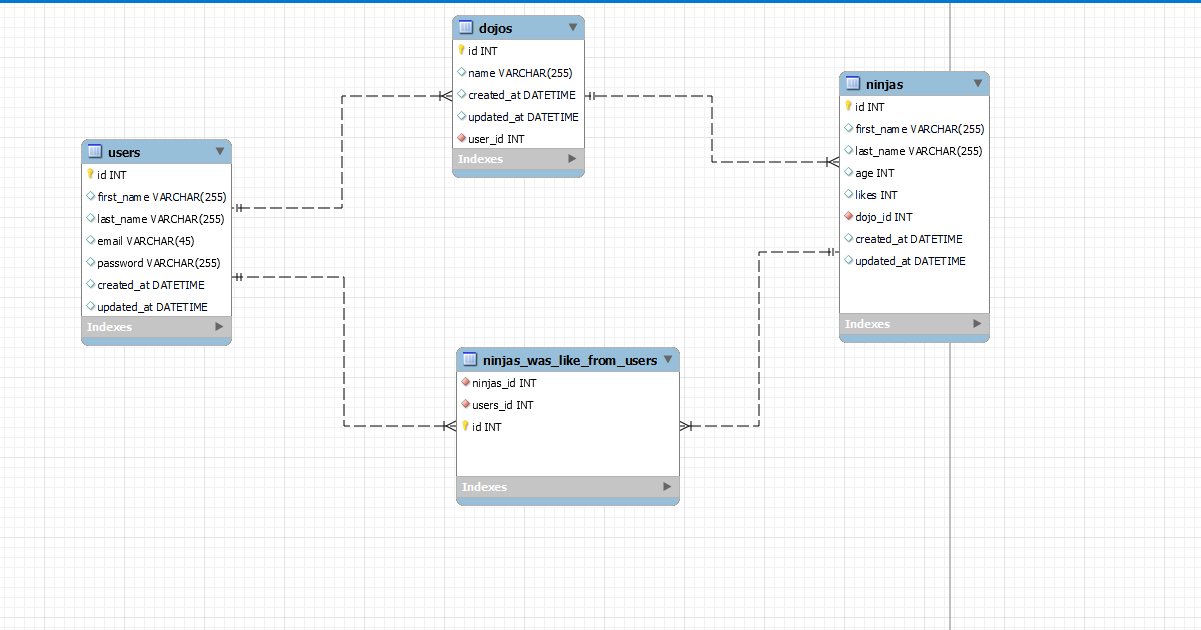
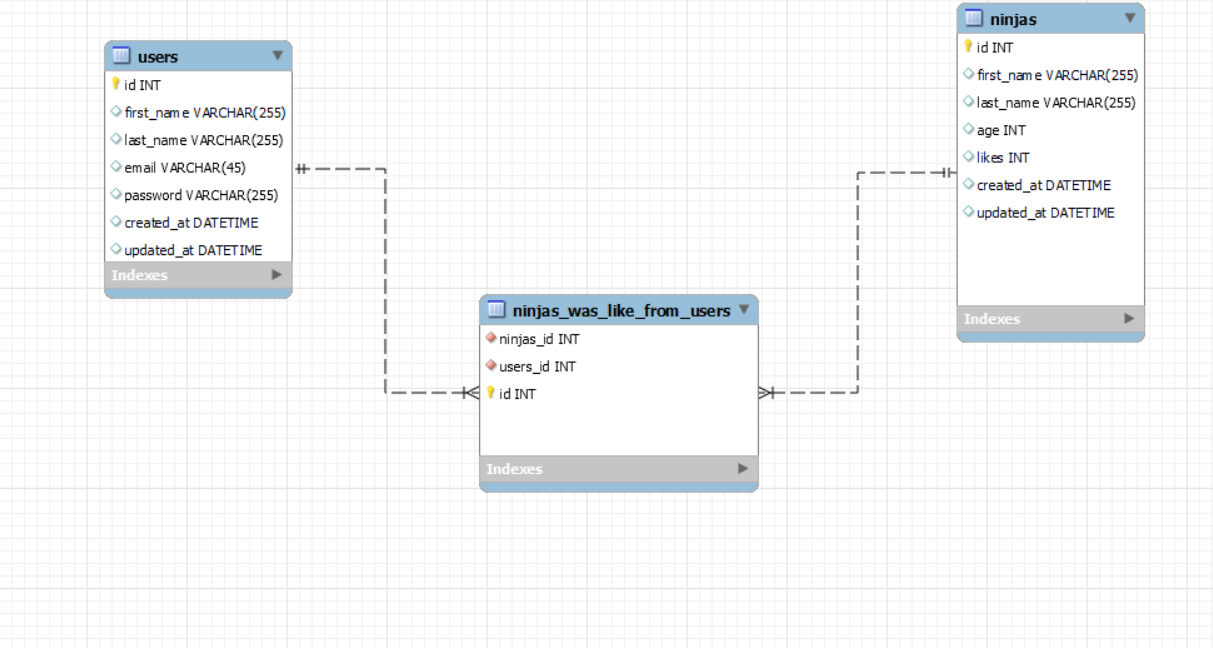
updates

diff --git a/flask_app/templates/index.html b/flask_app/templates/index.html
@@ -15,24 +15,14 @@
    
     <div class="d-flex justify-content-around">
         
-        <form action="/create/dojo" method="post">
-            <h1>New Dojo</h1>
-            <div class="form-group">
-                <label for="name">Name:</label>
-                <input type="text" name="name" class="form-control">
-            </div>
-            <input type="submit" value="Create" class="btn btn-primary">
-        </form>
+        <a href="/ninjas">Add Ninja</a>
         <div>
-            <h1>All Dojos</h1>
+            <h1>All Ninjas</h1>
             <div class="border  border-dark p-2">
-                {% for dojo in all_dojos %}
-                <p><a href="/dojo/{{dojo.id}}">{{dojo.name}}</a></p>
+                {% for ninja in all_ninjas %}
+                <p><a href="/ninja/{{ninja.id}}">{{ninja.first_name}}</a></p>
                 {% endfor %}
             </div>
-            
-        
-            <a class="m-4" href="/ninjas">Add Ninja</a>
         </div>
        
     </div>

diff --git a/flask_app/templates/showOneNinja.html b/flask_app/templates/showOneNinja.html
@@ -8,7 +8,7 @@
     <title>Dojos And Ninjas</title>
 </head>
 <body>
-    <h1>{{dojo.name}} Ninjas</h1>
+    <h1>{{ninja.first_name}} Ninjas</h1>
     <table class="table table-dark">
         <thead>
           <tr>
@@ -20,11 +20,10 @@
           </tr>
         </thead>
         <tbody>
-            {% for ninja in dojo.ninjas %}
             <tr>
                 <th scope="row">{{ninja.first_name}}</th>
                 <td>{{ninja.last_name}}</td>
-                <td>{{ninja.age}}</td>
+                <td>{{ninja.users_who_liked}}</td>
                 <td>{{ninja.likes}}</td>
 
 
@@ -35,9 +34,7 @@
                 <td><a href="/ninja/{{ninja.id}}/unlike">Unlike</a></td>
                 {% endif %}
             </tr>
-            
-            
-            {% endfor %}
+
         </tbody>
       </table>
       <a href="/">Home</a>

diff --git a/flask_app/templates/ninja.html b/flask_app/templates/ninja.html
@@ -22,14 +22,6 @@
     {% endwith %}
 
         <div class="form-group">
-            <label for="dojo_id">Dojo:</label>
-            <select name="dojo_id" class="form-control">
-                {% for dojo in dojos %}
-                <option value="{{dojo.id}}">{{dojo.name}}</option>
-                {% endfor %}
-            </select>
-        </div>
-        <div class="form-group">
             <label for="first_name">First Name:</label>
             <input type="text" name="first_name" class="form-control">
         </div>

diff --git a/flask_app/controllers/ninjas.py b/flask_app/controllers/ninjas.py
@@ -1,19 +1,31 @@
 from flask import render_template, redirect, request, session
 from flask_app import app
-from flask_app.models import dojo,ninja, user
+from flask_app.models.user import User
+from flask_app.models.ninja import Ninja
 
 @app.route('/ninjas')
 def ninjas():
-    return render_template('ninja.html', dojos= dojo.Dojo.get_all())
+    return render_template('ninja.html')
 
 @app.route('/create/ninja', methods=['POST'])
 def create_ninja():
     if 'user_id' not in session:
         return redirect('/logout')
-    if not ninja.Ninja.validate_ninja(request.form):
+    if not Ninja.validate_ninja(request.form):
         return redirect('/ninjas')
-    ninja.Ninja.save(request.form)
+    Ninja.save(request.form)
     return redirect('/')
+
+@app.route('/ninja/<int:id>')
+def show_ninja(id):
+    if 'user_id' not in session:
+        return redirect('/logout')
+    data = {
+        'ninja_id' : id,
+        'user_id': session['user_id']
+    }
+    myNinja = Ninja.get_one(data)
+    return render_template('showOneNinja.html', ninja=myNinja,  user=User.get_by_id(data),)
 
 @app.route('/ninja/<int:id>/like', methods=['GET','PUT'])
 def like_ninja(id):
@@ -24,12 +36,15 @@ def like_ninja(id):
         'user_id': session['user_id'],
         
     }
-    myNinja= ninja.Ninja.getUsersWhoLiked(data)
 
-    ninja.Ninja.addLike(data)
-    ninja.Ninja.getUsersWhoLiked(data)
-
-    return redirect(request.referrer)
+    Ninja.addLike(data)
+    updatedNinja = Ninja.getUsersWhoLiked(data)
+    updatedData = {
+        'ninja_id': id,
+        'likes': updatedNinja.likes
+    }
+    Ninja.update(updatedData)
+    return render_template('showOneNinja.html', ninja=updatedNinja,  user=User.get_by_id(data))
 
 @app.route('/ninja/<int:id>/unlike', methods=['GET','PUT'])
 def unlike_ninja(id):
@@ -39,5 +54,6 @@ def unlike_ninja(id):
         'ninja_id': id,
         'user_id': session['user_id'],
     }
-    user.User.unLike(data)
-    return redirect(request.referrer)
+    User.unLike(data)
+    updatedNinja = Ninja.getUsersWhoLiked(data)
+    return render_template('showOneNinja.html', ninja=updatedNinja,  user=User.get_by_id(data))

diff --git a/flask_app/controllers/users.py b/flask_app/controllers/users.py
@@ -2,7 +2,6 @@ import bcrypt
 from flask import render_template,redirect,session,request, flash
 from flask_app import app
 from flask_app.models.user import User
-from flask_app.models.dojo import Dojo
 from flask_app.models.ninja import Ninja
 from flask_bcrypt import Bcrypt
 bcrypt= Bcrypt(app)
@@ -10,16 +9,22 @@ bcrypt= Bcrypt(app)
 @app.route('/')
 def index():
     if 'user_id' in session:
-        return redirect('/dojos')
+        return redirect('/home')
     return render_template('login_register.html')
 
 @app.route('/register', methods=['POST'])
 def register():
     if not User.validate_register(request.form):
         return redirect('/')
-    id= User.save(request.form)
+    data ={ 
+        "first_name": request.form['first_name'],
+        "last_name": request.form['last_name'],
+        "email": request.form['email'],
+        "password": bcrypt.generate_password_hash(request.form['password'])
+    }
+    id= User.save(data)
     session['user_id']= id
-    return redirect ('/dojos')
+    return redirect ('/home')
 
 
 @app.route('/login',methods=['POST'])
@@ -32,18 +37,18 @@ def login():
         flash("Invalid Password","login")
         return redirect('/')
     session['user_id'] = user.id
-    return redirect('/dojos')
+    return redirect('/home')
 
 
-@app.route('/dojos')
-def dojos():
+@app.route('/home')
+def pageninjas():
     if 'user_id' not in session:
         return redirect ('/logout')
     data={
         'user_id': session['user_id']
     }
-    dojos = Dojo.get_all()
-    return render_template('index.html', user=User.get_by_id(data), all_dojos=dojos)
+    ninjas = Ninja.get_all()
+    return render_template('index.html', user=User.get_by_id(data), all_ninjas=ninjas)
 
 
 @app.route('/logout')

diff --git a/flask_app/models/ninja.py b/flask_app/models/ninja.py
@@ -14,6 +14,17 @@ class Ninja:
         self.updated_at = data['updated_at']
         self.users_who_liked=[]
 
+
+
+    @classmethod
+    def get_all(cls):
+        query = "SELECT * FROM ninjas;"
+        results = connectToMySQL('dojos_and_ninjas').query_db(query)
+        ninjas = []
+        for row in results:
+            ninjas.append( cls(row))
+        return ninjas
+
     @classmethod
     def get_one(cls,data):
         query = "SELECT * FROM ninjas WHERE id = %(ninja_id)s;"
@@ -22,7 +33,12 @@ class Ninja:
 
     @classmethod
     def save(cls, data):
-        query = 'INSERT INTO ninjas (first_name, last_name, age, dojo_id) VALUES ( %(first_name)s, %(last_name)s, %(age)s, %(dojo_id)s);'
+        query = 'INSERT INTO ninjas (first_name, last_name, age ) VALUES ( %(first_name)s, %(last_name)s, %(age)s );'
+        return connectToMySQL('dojos_and_ninjas').query_db(query, data)
+    
+    @classmethod
+    def update(cls, data):
+        query = 'UPDATE ninjas SET likes = %(likes)s WHERE id=%(ninja_id)s;'
         return connectToMySQL('dojos_and_ninjas').query_db(query, data)
 
     @classmethod
@@ -42,7 +58,8 @@ class Ninja:
         myNinja = Ninja.get_one(data)
         for row in results:
             myNinja.users_who_liked.append(row['email'])
-        return myNinja.users_who_liked
+        myNinja.likes=len(myNinja.users_who_liked)
+        return myNinja
 
 
     

diff --git a/server.py b/server.py
@@ -1,5 +1,5 @@
 from flask_app import app
-from flask_app.controllers import dojos, ninjas, users
+from flask_app.controllers import  ninjas, users
 
 
 if __name__== "__main__":
